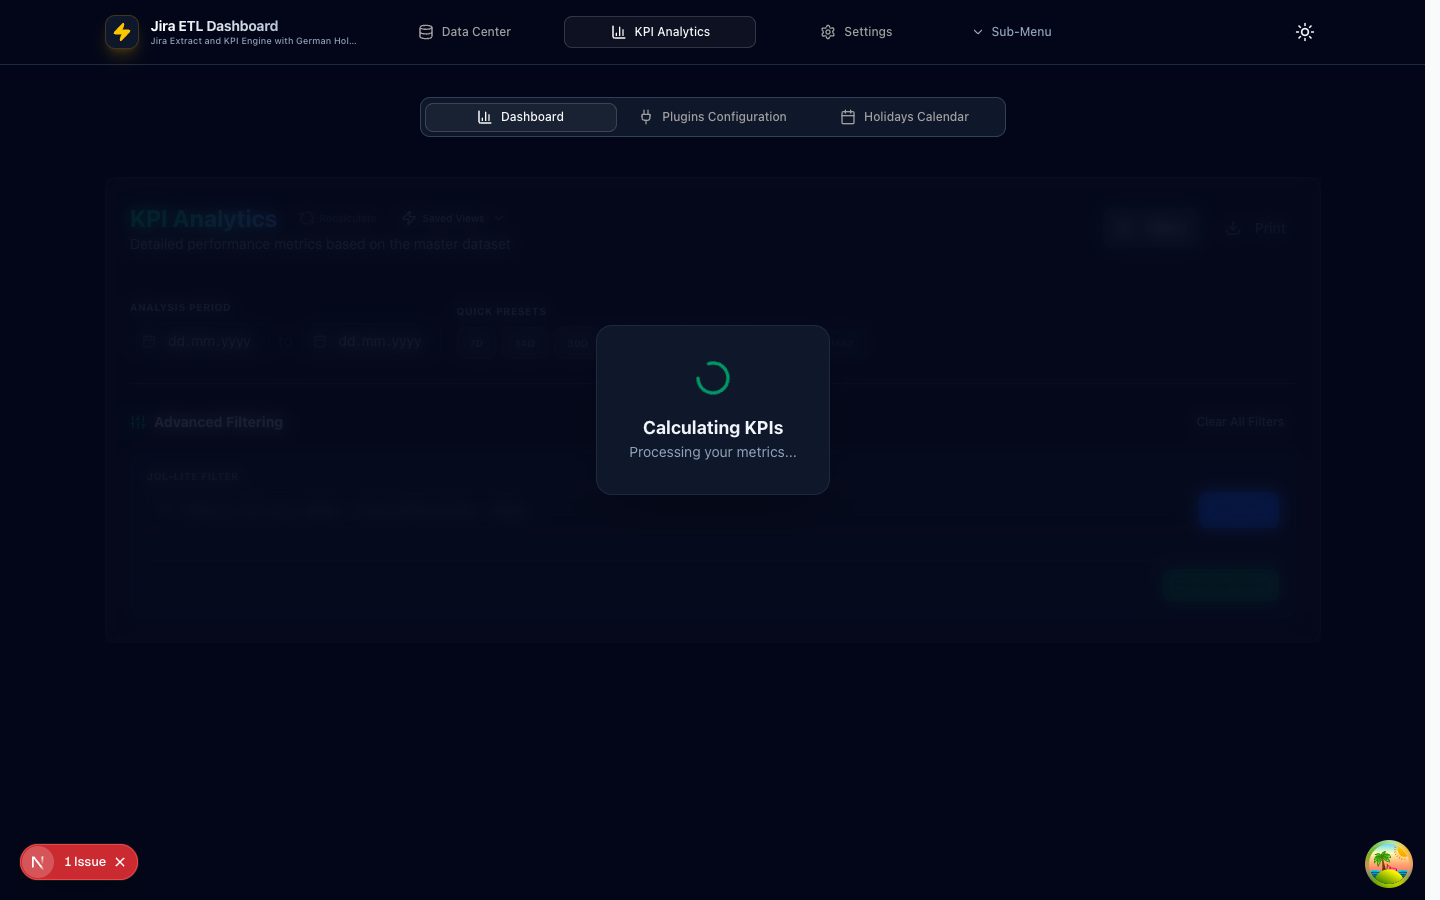
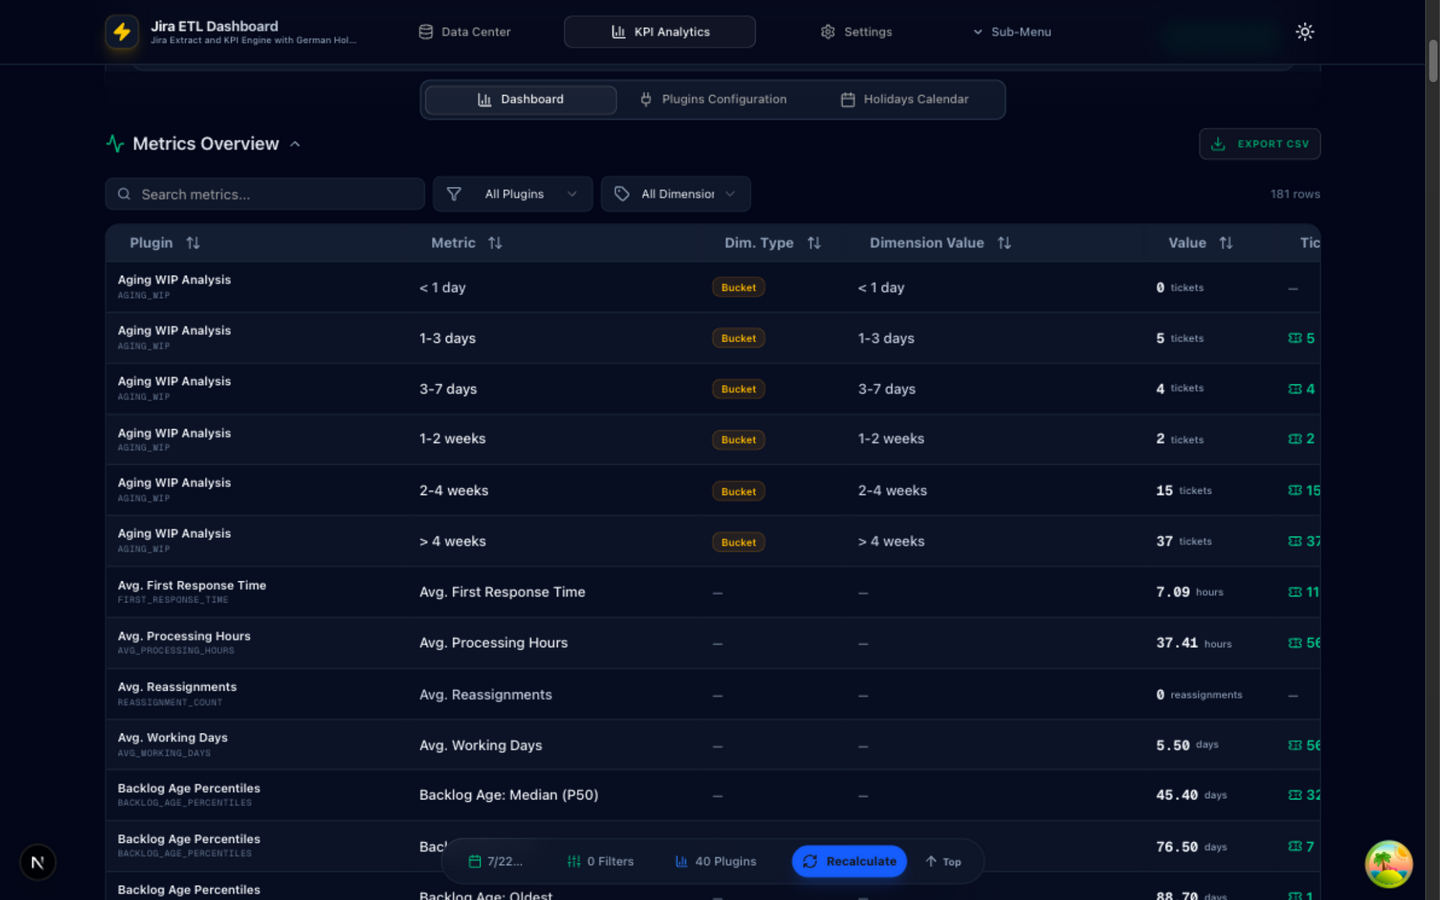
docs: refresh screenshots with demo data; document demo mode
- New data-center / kpi-analytics / settings captures (1440x900, dark theme)
  generated from the artificial demo dataset
- README: participants column + four multi-select filters, Demo Mode feature
  bullet, getting-started note for credential-free exploration
- CLAUDE.md: demo mode wiring at the DataSource seam and the always-requested
  participants field on the extract route

diff --git a/README.md b/README.md
@@ -7,7 +7,7 @@ Built with **Next.js 16**, **React 19**, **Prisma ORM**, **shadcn/ui**, and **Ta
 ## 📸 Screenshots
 
 ### Data Center
-Extract ticket data from Jira with JQL queries, date range selection, scheduled polling, and export to CSV/JSON/PostgreSQL. The extraction list previews results with key, summary, assignee, and status columns — filter by multiple statuses at once, search, and sort (newest created by default).
+Extract ticket data from Jira with JQL queries, date range selection, scheduled polling, and export to CSV/JSON/PostgreSQL. The extraction list previews results with key, summary, assignee, **participants**, and status columns — multi-select filters for project, assignee, participants, and status, free-text search across all of them, and sort (newest created by default).
 
 <p align="center">
   <img src="docs/screenshots/data-center.png" alt="Data Center - Jira Extraction Panel" width="800" />
@@ -54,6 +54,7 @@ Manage Jira connections, storage engine configuration (SQLite/PostgreSQL), and a
 
 ### ⚡ Architecture & Data Confidence
 - **Dual Build Modes** — One codebase ships as the server product (`npm run build` → caxa exe) **and** as a static GitHub Pages app backed by a local Python relay (`npm run build:static`); a build-time mode flag plus the `DataSource` seam (`src/lib/datasource/`) selects the backend, so server-mode behavior is unchanged.
+- **Demo Mode** — A **Try Demo Mode** toggle in the Data Center serves ~120 artificial tickets (full status changelogs, participants, story points) through the same `DataSource` seam — every view, filter, and KPI works without Jira credentials, and nothing is written to the database.
 - **Hybrid Storage Architecture** — Dynamically switches between local SQLite and remote PostgreSQL (Supabase) at runtime based on frontend storage configuration (server mode).
 - **Dual Prisma Clients** — Utilizes a specialized multi-client wrapper to support cross-engine compatibility without re-generating schemas or restarting the server.
 - **TanStack React Query** — Advanced state management for automated background data synchronization, intelligent caching, and consistent loading states.
@@ -72,7 +73,7 @@ Manage Jira connections, storage engine configuration (SQLite/PostgreSQL), and a
 - **Master Dataset Management** — Automatically tracks additions, updates, and deletions to maintain a faithful local mirror of Jira data.
 - **Scheduled Polling** — Robust server-side background sync (1min–4hr intervals) that survives restarts and hot-reloads; the extraction list silently refreshes when a scheduled run completes.
 - **Extraction Logic** — Smart `update-only` mode that fetches only modified tickets since the last sync to minimize API load.
-- **Live Extraction List** — Preview extracted issues with key, summary, assignee, and status columns; combine free-text search with multi-select status filtering and sort by key or created/updated date (newest created by default).
+- **Live Extraction List** — Preview extracted issues with key, summary, assignee, participants, and status columns; combine free-text search with multi-select filters (project, assignee, participants, status) and sort by key or created/updated date (newest created by default).
 
 ### KPI Calculation Engine
 **40 built-in plugins** (27 core + 13 time-series) organized by business domain. Every time-based KPI **excludes weekends and German holidays** (all 16 states supported), with configurable work hours.
@@ -353,6 +354,11 @@ npm run dev
 > `npm install`, `npm run dev`, and `npm run build` automatically run the Prisma setup
 > hook (`scripts/prisma-setup.mjs`), which generates the SQLite/PostgreSQL clients and
 > pushes the schema to the local SQLite database.
+
+> **No Jira account yet?** Click **Try Demo Mode** in the Data Center tab — it loads an
+> artificial 90-day dataset through the regular pipeline so you can explore the extraction
+> preview, filters, and the full KPI dashboard without any credentials. Exit any time; the
+> demo data is never persisted.
 
 ### Environment variables
 Copy `.env.example` to `.env` and adjust the values as needed:

diff --git a/CLAUDE.md b/CLAUDE.md
@@ -36,7 +36,7 @@ the dev server via the Playwright config, and uploads the HTML report as an arti
 ### Single page + API routes
 The UI is one page (`src/app/page.tsx`, tabbed panels under `src/components/dashboard/`). All data flows through ~20 API routes under `src/app/api/`:
 
-- `jira/extract` — core ETL: JQL pull → `EtlRun` + `TicketSnapshot`/`TicketTransition` + `MasterTicket` upserts → KPI calculation → `KpiResult` storage. The run row starts as `extracting` and is promoted to `completed` only after the load succeeds (`failed` + errorLog on crash); old-run pruning happens after success. Deletion detection is conservative: it only runs for the app-generated broad-sync JQL, never for user-provided custom JQL.
+- `jira/extract` — core ETL: JQL pull → `EtlRun` + `TicketSnapshot`/`TicketTransition` + `MasterTicket` upserts → KPI calculation → `KpiResult` storage. The run row starts as `extracting` and is promoted to `completed` only after the load succeeds (`failed` + errorLog on crash); old-run pruning happens after success. Deletion detection is conservative: it only runs for the app-generated broad-sync JQL, never for user-provided custom JQL. The Participants field (`JIRA_PARTICIPANTS_FIELD`, default `customfield_10032`) is always added to the requested field list so the extract preview can show participant names.
 - `jira/poll` — server-side background polling scheduler (keeps credentials in `globalThis` state)
 - `jira/connections/[connectionId]` — DELETE: cascades all of a connection's data (KPI results, dashboard views, transitions, snapshots, runs, master tickets) in one transaction
 - `kpi/calculate` — KPI engine entry point; the UI calls this, there is no client-side calculation
@@ -139,6 +139,15 @@ The codebase uses `@MX:` comment tags; follow the same style in significant chan
    features must work through that seam or carry a `runtimeFeatures` flag
    (see `src/lib/runtime/mode.ts`). Don't build features assuming only one
    mode exists.
+   **Demo mode** rides the same seam: a localStorage toggle (`cfg_demo_mode`,
+   Try/Exit buttons in the extract panel) makes `getDataSource()` return a
+   `DemoDataSource` (`src/lib/datasource/demo.ts`) that wraps the active
+   backend and serves the deterministic artificial dataset from
+   `demo-data.ts` (extract + master dataset + client-side KPI calc; views,
+   plugins, holidays, exports delegate to the real backend). No DB writes —
+   exiting demo just drops the in-memory data. The synthetic connection id is
+   `'demo'` (`DEMO_CONNECTION_ID`); `useExtraction` skips its connection
+   lookup while the flag is on.
 4. **Custom plugin upload = server-side file write** into the custom-plugin directory
    (`data/custom-plugins/`) with the plugin's `calculate` body interpolated, activated at
    restart. Formula execution itself is sandboxed (see KPI engine section), but the file-write
